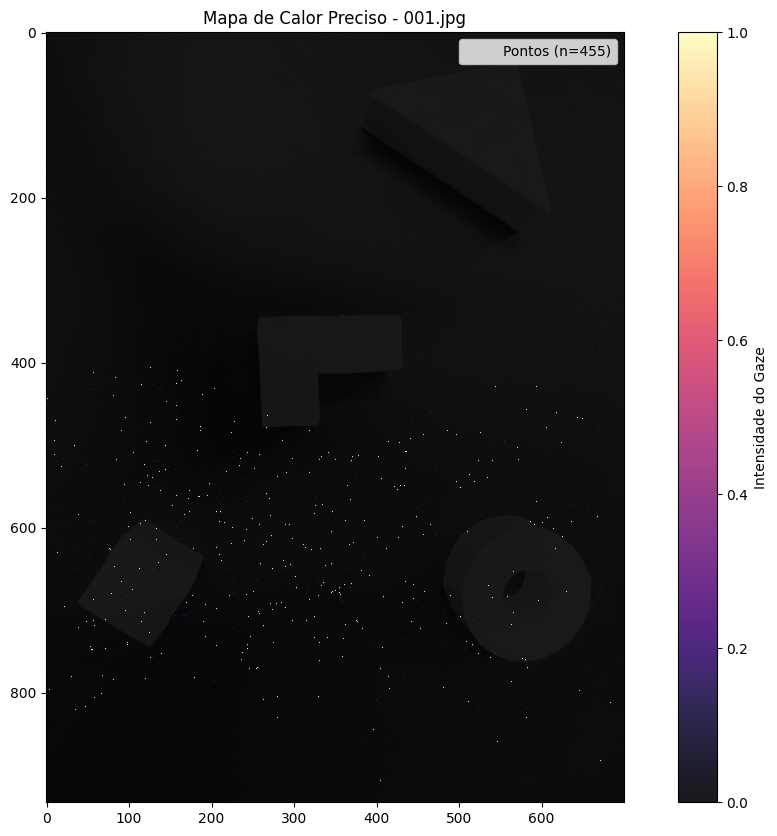
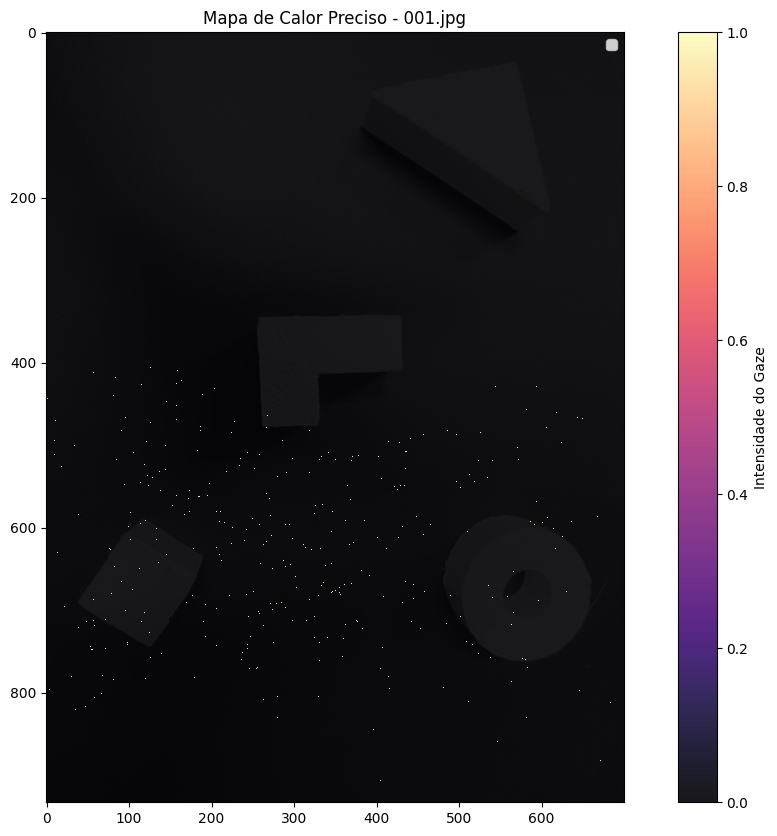
remopve ponto fix

Changed region(s): [[0.5869, 0.0311, 0.8031, 0.0933]]

diff --git a/main.py b/main.py
@@ -36,14 +36,14 @@ def visualizar_com_matplotlib(matriz, caminho_imagem, output_dir='output'):
             matriz_heatmap[y, x] = 1
         plt.imshow(matriz_heatmap, cmap='hot', alpha=0.9, interpolation='none')
 
-    fator_correcao = 0.35
-    pixel_size = (72. / dpi) * fator_correcao
-    plt.scatter(xs, ys,
-                color='cyan',
-                s=pixel_size,
-                alpha=0.6,
-                edgecolors='none',
-                label=f'Pontos (n={len(xs)})')
+    # fator_correcao = 0.35
+    # pixel_size = (72. / dpi) * fator_correcao
+    # plt.scatter(xs, ys,
+    #             color='cyan',
+    #             s=pixel_size,
+    #             alpha=0.6,
+    #             edgecolors='none',
+    #             label=f'Pontos (n={len(xs)})')
 
     plt.colorbar(heatmap, label='Intensidade do Gaze')
     plt.title(f"Mapa de Calor Preciso - {os.path.basename(caminho_imagem)}")
